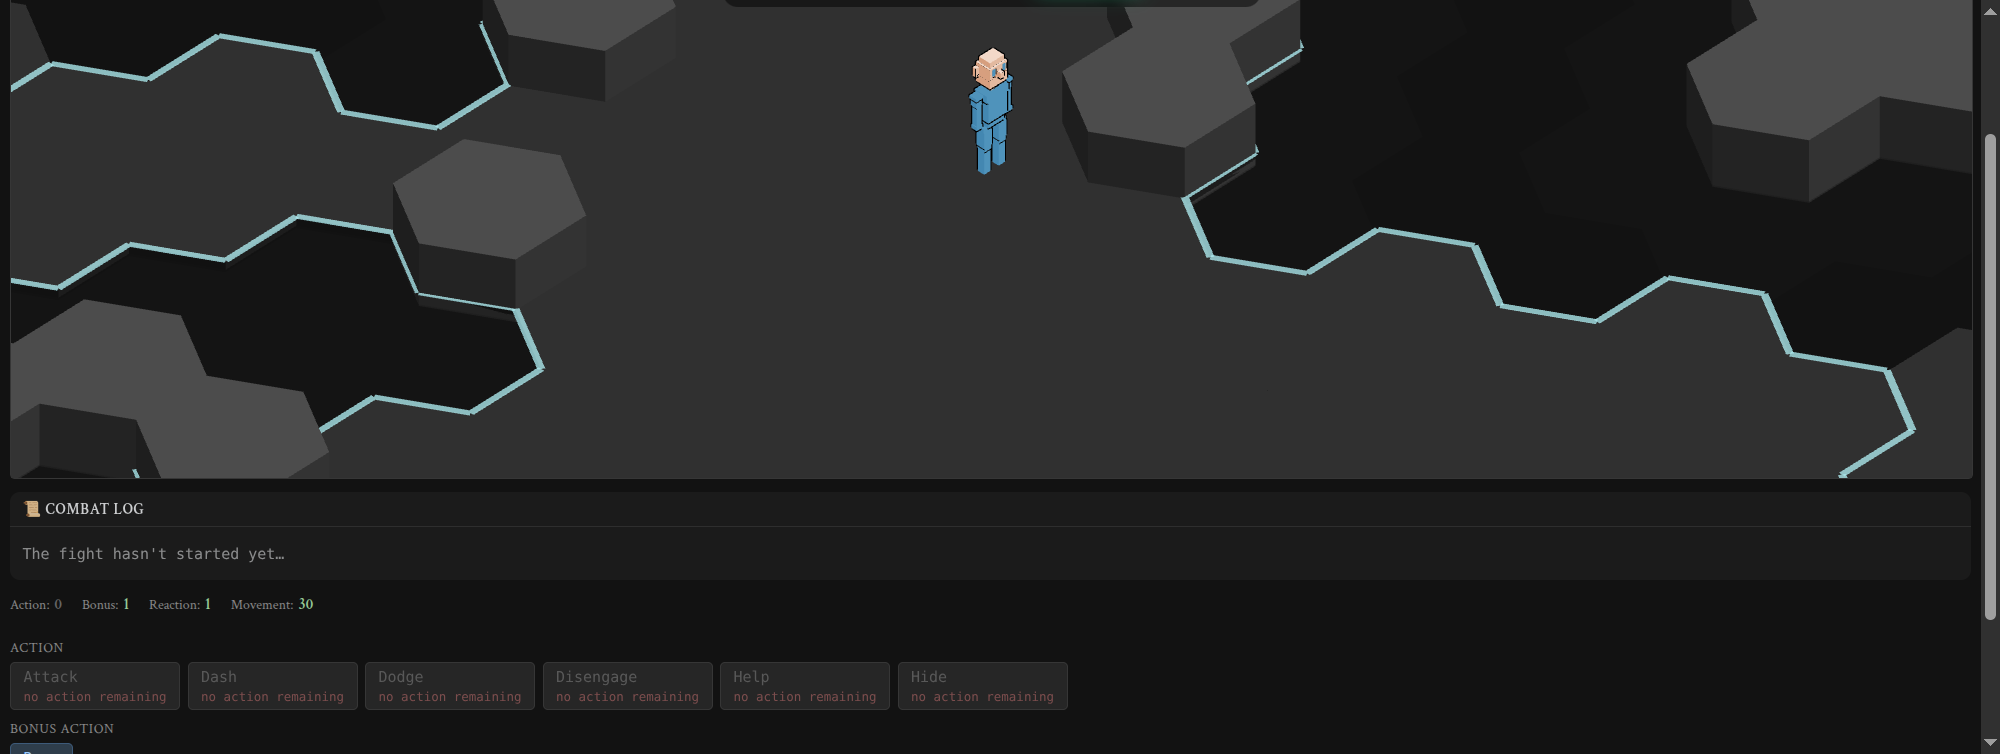
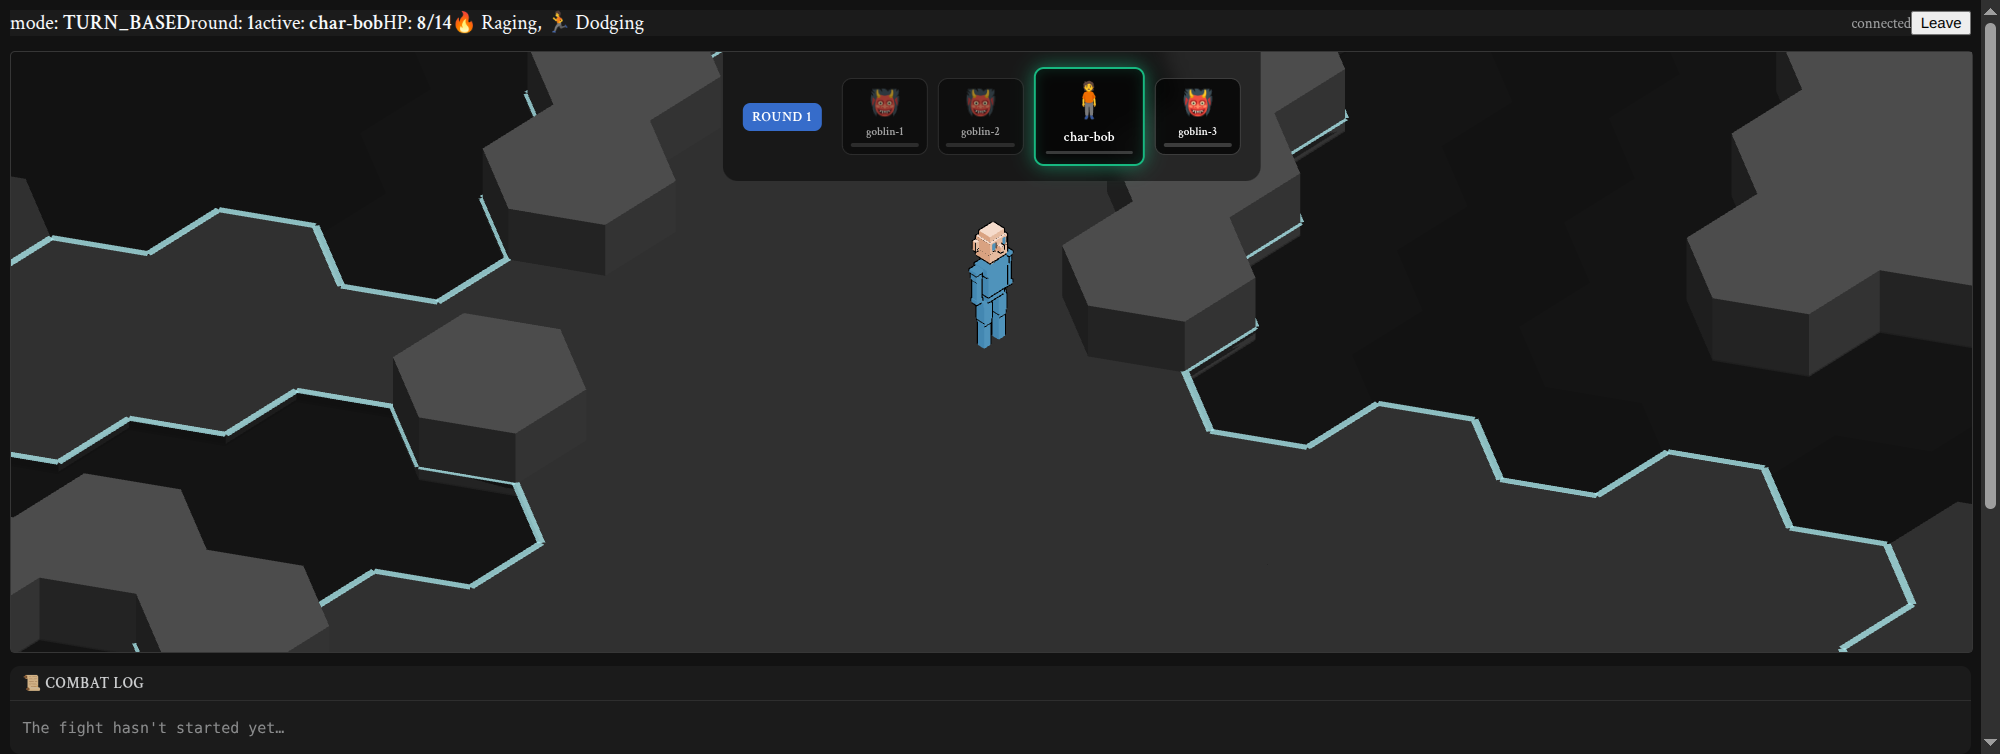
fix(game): address Copilot review + reshoot evidence on #463
- useEncounterState's public applyEntityAppearedBatch callback type
  now declares the optional statusEffects entry field, matching the
  reducer's actual signature. Also fixed a second stale copy of the
  "statuses flow only via delta events" doc comment on the public
  applySnapshotTurnState interface entry (missed the interface copy
  earlier; the reducer's own doc comment was already updated).
- Re-shot the evidence screenshot: the originally committed frame had
  scrolled past the header row (both badges were genuinely present in
  the live DOM at capture time, confirmed via the a11y snapshot taken
  in the same step, but not visible in the saved PNG the gate
  reviewed) — caught by the gate, not by me. Reloaded, reset scroll to
  the top before capturing, and this time read the saved file back
  with the Read tool myself before using it as evidence, rather than
  trusting the tool's inline preview alone.

diff --git a/src/hooks/useEncounterState.ts b/src/hooks/useEncounterState.ts
@@ -921,7 +921,10 @@ export interface UseEncounterStateResult {
   /**
    * Apply a batch of entity appearances in a single state update to avoid N
    * intermediate renders when seeding multiple entities from a snapshot.
-   * Each entry carries the v1alpha1 positional stub plus v1alpha2 type/HP/AC/meta.
+   * Each entry carries the v1alpha1 positional stub plus v1alpha2 type/HP/AC/meta,
+   * and optionally statusEffects (#462) — when present, REPLACES (not merges
+   * into) that entity's entityStatuses entry from the snapshot's authoritative
+   * per-entity condition list.
    */
   applyEntityAppearedBatch: (
     entries: Array<{
@@ -930,14 +933,17 @@ export interface UseEncounterStateResult {
       monsterRefId: string | undefined;
       initialHP: { current: number; max: number } | undefined;
       initialAC: number | undefined;
+      statusEffects?: StatusEffect[];
     }>
   ) => void;
   /**
    * Apply v1alpha2 turn state from a SnapshotDelivered event.
    * Updates initiativeOrder, activeEntityId, round, and mode without touching
-   * HP / statuses / doors (those flow only via delta events). Also seeds the
-   * server-authored menu/economy (turnState) so the menu renders at turn start
-   * before the first TurnStateChanged push (TakeAction wave #426).
+   * HP / doors (those flow only via delta events) — per-entity statusEffects
+   * from the SAME snapshot are hydrated separately via
+   * applyEntityAppearedBatch (#462). Also seeds the server-authored
+   * menu/economy (turnState) so the menu renders at turn start before the
+   * first TurnStateChanged push (TakeAction wave #426).
    */
   applySnapshotTurnState: (
     encounterMode: EncounterMode,

diff --git a/docs/evidence/badge-hydration-462.md b/docs/evidence/badge-hydration-462.md
@@ -55,7 +55,26 @@ feature).
 
 `badge-hydration-survives-refresh-462.png` — both condition badges visible
 immediately after a second full page reload, sourced entirely from the
-snapshot. I viewed this frame directly.
+snapshot.
+
+**Correction (gate finding):** the screenshot originally committed here was
+mis-framed — the page's scroll position had drifted below the header row
+(likely from the earlier `Dodge` button click stealing focus/scroll), so
+the saved PNG showed only the hex map and combat log, not the badge text,
+even though the header was genuinely present in the live DOM at capture
+time (confirmed separately via the accessibility-tree snapshot in the same
+step, which did list `🔥 Raging, 🏃 Dodging`). The gate viewed the actual
+file and correctly caught that the image itself didn't show the claimed
+thing. Re-shot: reloaded the tab again, explicitly reset scroll to the top
+(`window.scrollTo(0, 0)`) before capturing, and this time read the saved
+PNG back with the Read tool myself before using it — not just trusting the
+tool's inline preview — to confirm the header row with both badges is
+actually in frame. It is: **I viewed this frame directly** (via Read on the
+saved file, not the live page) — the current
+`badge-hydration-survives-refresh-462.png` shows
+`mode: TURN_BASED round: 1 active: char-bob HP: 8/14 🔥 Raging, 🏃 Dodging`
+across the top, with the initiative order overlay (goblin-1, goblin-2,
+char-bob highlighted as active, goblin-3) below it.
 
 ## Secondary edge from the issue: DurationRounds display difference
 